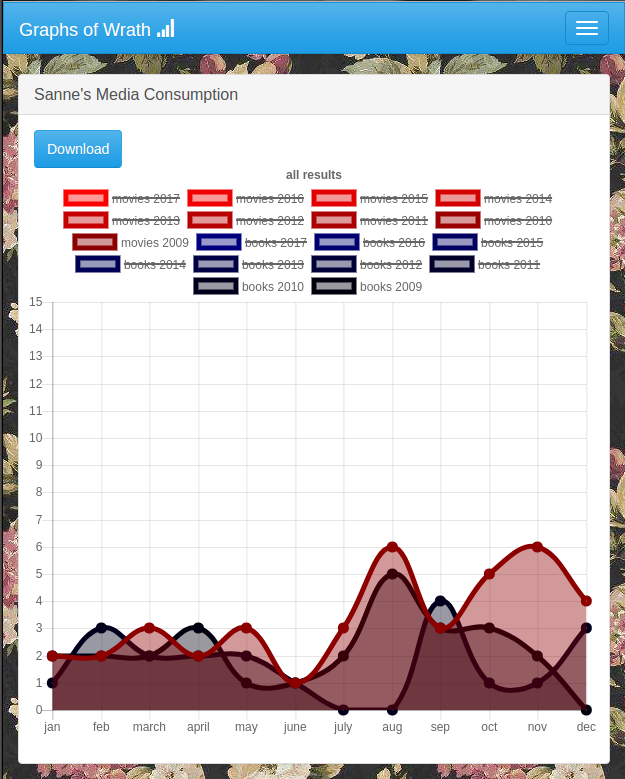
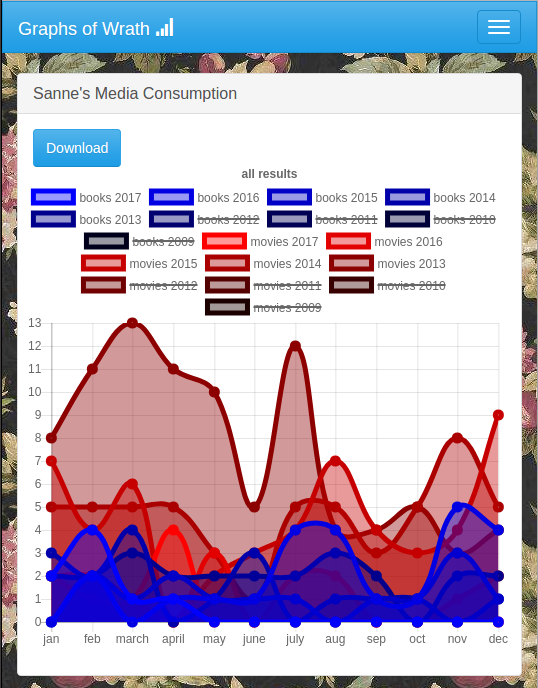
Fixed: bug where one color of "all stats" would start half-way through the color range (127 instead of 255)

diff --git a/src/SanneScraperBundle/Services/ApiService.php b/src/SanneScraperBundle/Services/ApiService.php
@@ -59,6 +59,24 @@ class ApiService
         return $query->getResult();
     }
 
+    public function getBookData()
+    {
+        $query = $this->em->createQuery(
+            'SELECT DISTINCT s.year, s.type, s.data, s.desc FROM SanneScraperBundle:Statistic s where s.type = 1'
+        );
+
+        return $query->getResult();
+    }
+
+    public function getMovieData()
+    {
+        $query = $this->em->createQuery(
+            'SELECT DISTINCT s.year, s.type, s.data, s.desc FROM SanneScraperBundle:Statistic s where s.type = 2'
+        );
+
+        return $query->getResult();
+    }
+
     public function getAllData()
     {
         $query = $this->em->createQuery(
@@ -70,16 +88,21 @@ class ApiService
 
     public function getAllConfigs()
     {
-        $data = $this->getAllData();
         $output = [];
+
+        $this->setColoredConfigForDataSet($this->getBookData(), $output);
+        $this->setColoredConfigForDataSet($this->getMovieData(), $output);
+
+        return $output;
+    }
+
+    public function setColoredConfigForDataSet(array $data, &$output)
+    {
         $count = count($data);
         $iteration = 1;
-
         foreach ($data as $record) {
             $output[] = $this->getConfig($record, $count, $iteration++);
         }
-
-        return $output;
     }
 
     public function getConfig(array $record, $total, $iteration)

diff --git a/src/SanneScraperBundle/tests/unit/ApiServiceTest.php b/src/SanneScraperBundle/tests/unit/ApiServiceTest.php
@@ -187,6 +187,27 @@ class ApiServiceTest extends Unit
         $this->assertEquals($expectedMovies, $api->getConfigForTotals($totals, 2));
     }
 
+    public function testSetColoredConfigForDataSet()
+    {
+        $api = new ApiService(($this->emMock));
+
+        $bookData = [['year' => 2017, 'data' => '[3, 8, 8]', 'type' => 1]];
+
+        $output = [];
+
+        $expectedBooks = [
+            'borderWidth' => 5,
+            'label' => 'books 2017',
+            'data' => [3, 8, 8],
+            'borderColor' => ['rgba(0,0,255,1)'],
+            'backgroundColor' => ['rgba(0,0,255,0.4)'],
+        ];
+
+        $api->setColoredConfigForDataSet($bookData, $output);
+
+        $this->assertEquals($expectedBooks, $output[0]);
+    }
+
     public function testGetTotalFromDataString()
     {
         $api = new ApiService(($this->emMock));

diff --git a/README.md b/README.md
@@ -56,7 +56,6 @@ TODO
 
 (Yes i could use GitHub tickets, but i don't actually expects pull requests)
 
-* Improvement: color range of blue in yearly totals is currently on the dark side
 * Feature: make inherited templates out of all the shared parts of current graph templates
 * Feature: make more re-usable version of the current update*.js files
 * Testing: Behat Tests 
